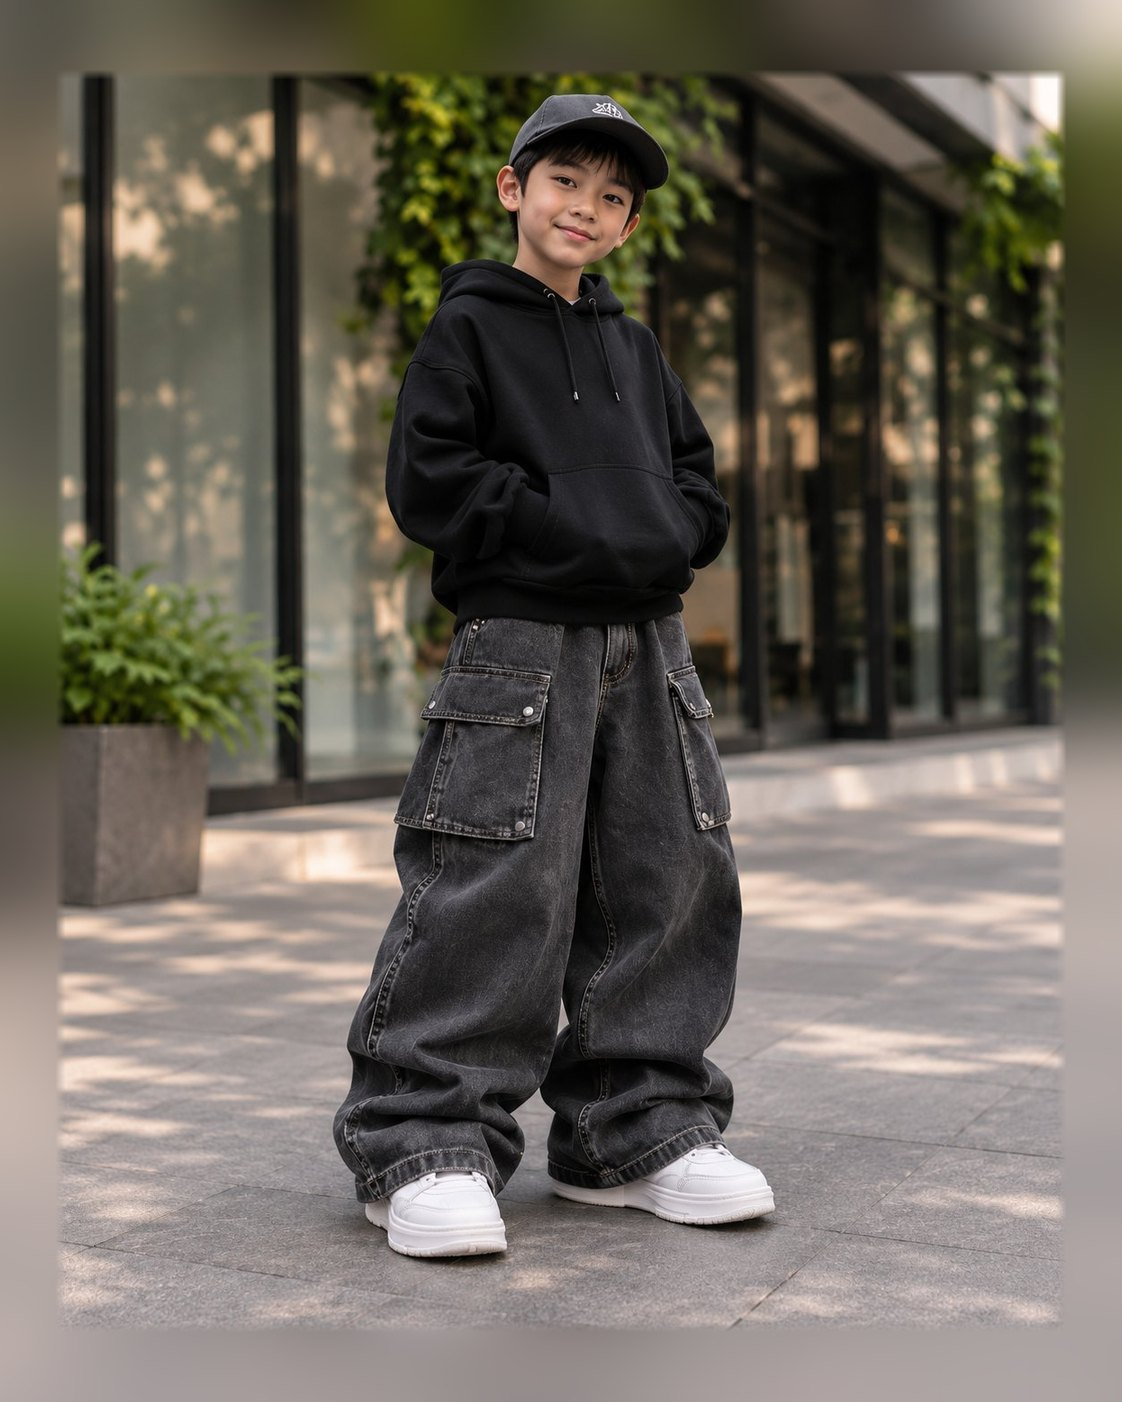
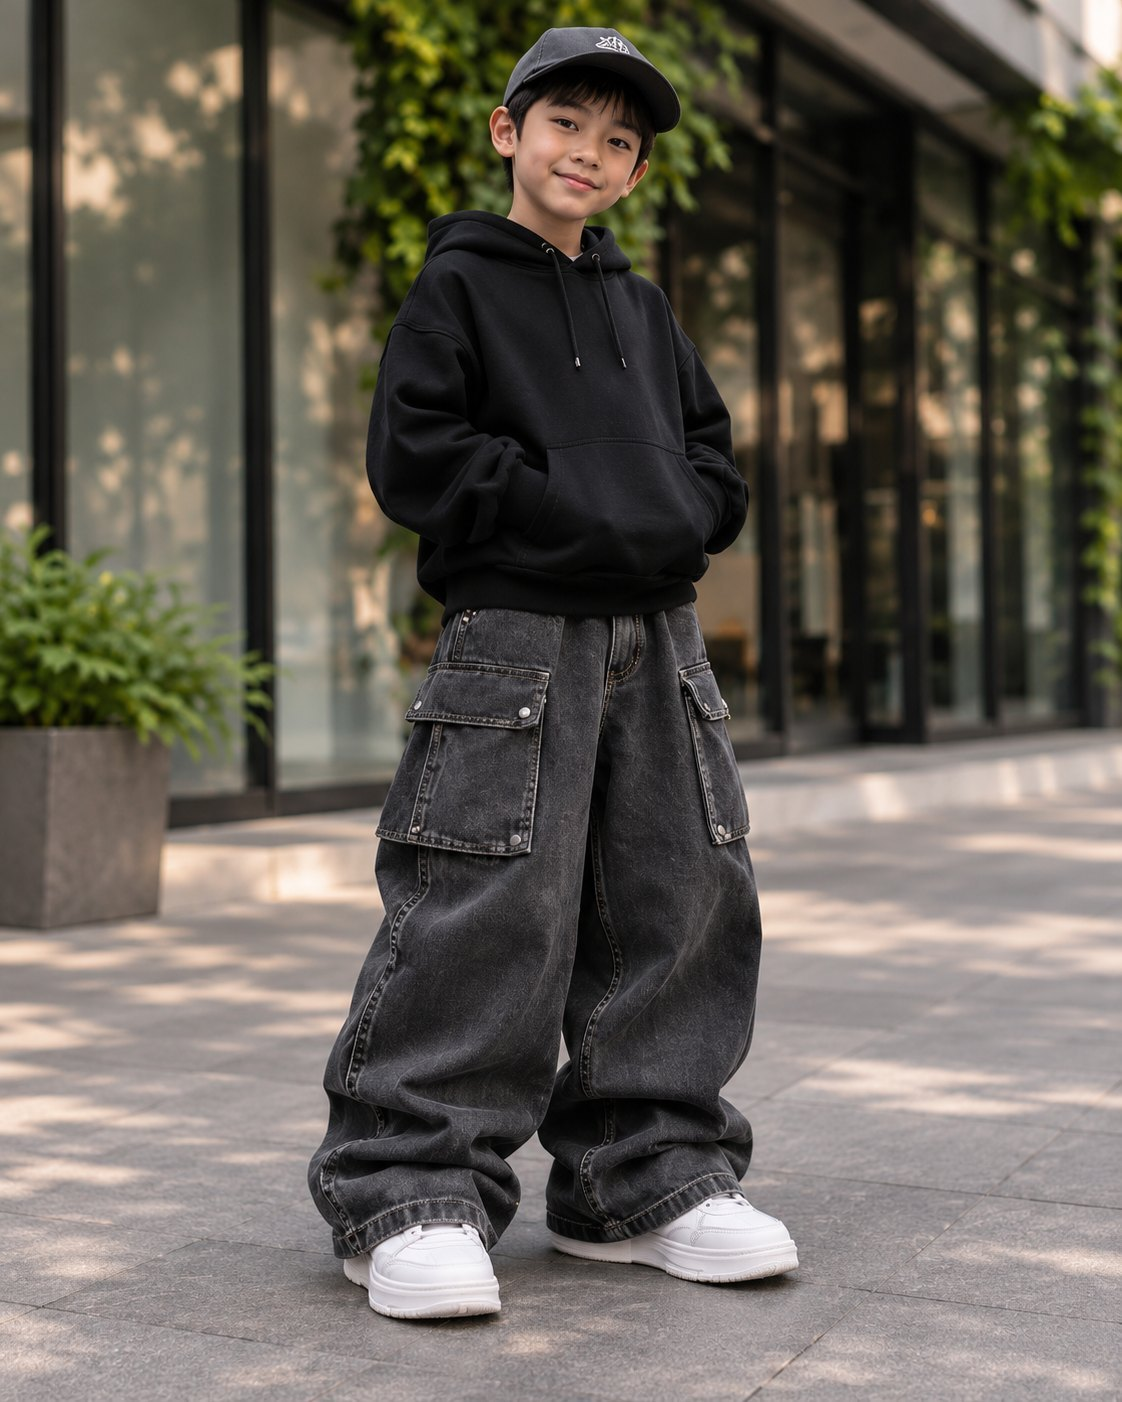
Homepage cards use fitted card/hover photos; hover photo edge to edge with no blurred frame

diff --git a/products.js b/products.js
@@ -236,7 +236,7 @@
     cards: function (c) { return inCat(c).map(card); },
     names: function (c, n) { return inCat(c).slice(0, n).map(function (p) { return p.name; }); },
     prices: function (c, n) { return inCat(c).slice(0, n).map(function (p) { return p.price; }); },
-    imgs: function (c, n) { return inCat(c).slice(0, n).map(function (p) { return [img(p, 7), img(p, 0)]; }); },
+    imgs: function (c, n) { return inCat(c).slice(0, n).map(function (p) { return [img(p, 7), img(p, p.hov ? 8 : 0)]; }); },
     cover: function (c) { var l = inCat(c); return l.length ? img(l[0], 0) : ''; },
     hrefForImg: function (path) {
       path = path || '';

diff --git a/settings.js b/settings.js
@@ -36,7 +36,7 @@ window.DOLCE_SETTINGS = {
 
   // Raise this number by 1 whenever you replace product photos, so every
   // visitor's browser downloads the new pictures instead of showing old ones.
-  imageVersion: 15,
+  imageVersion: 16,
 
   // Hand-picked product lists for the Gift Guide and Most Loved pages.
   // Use the "slug" of each product from products.js.
